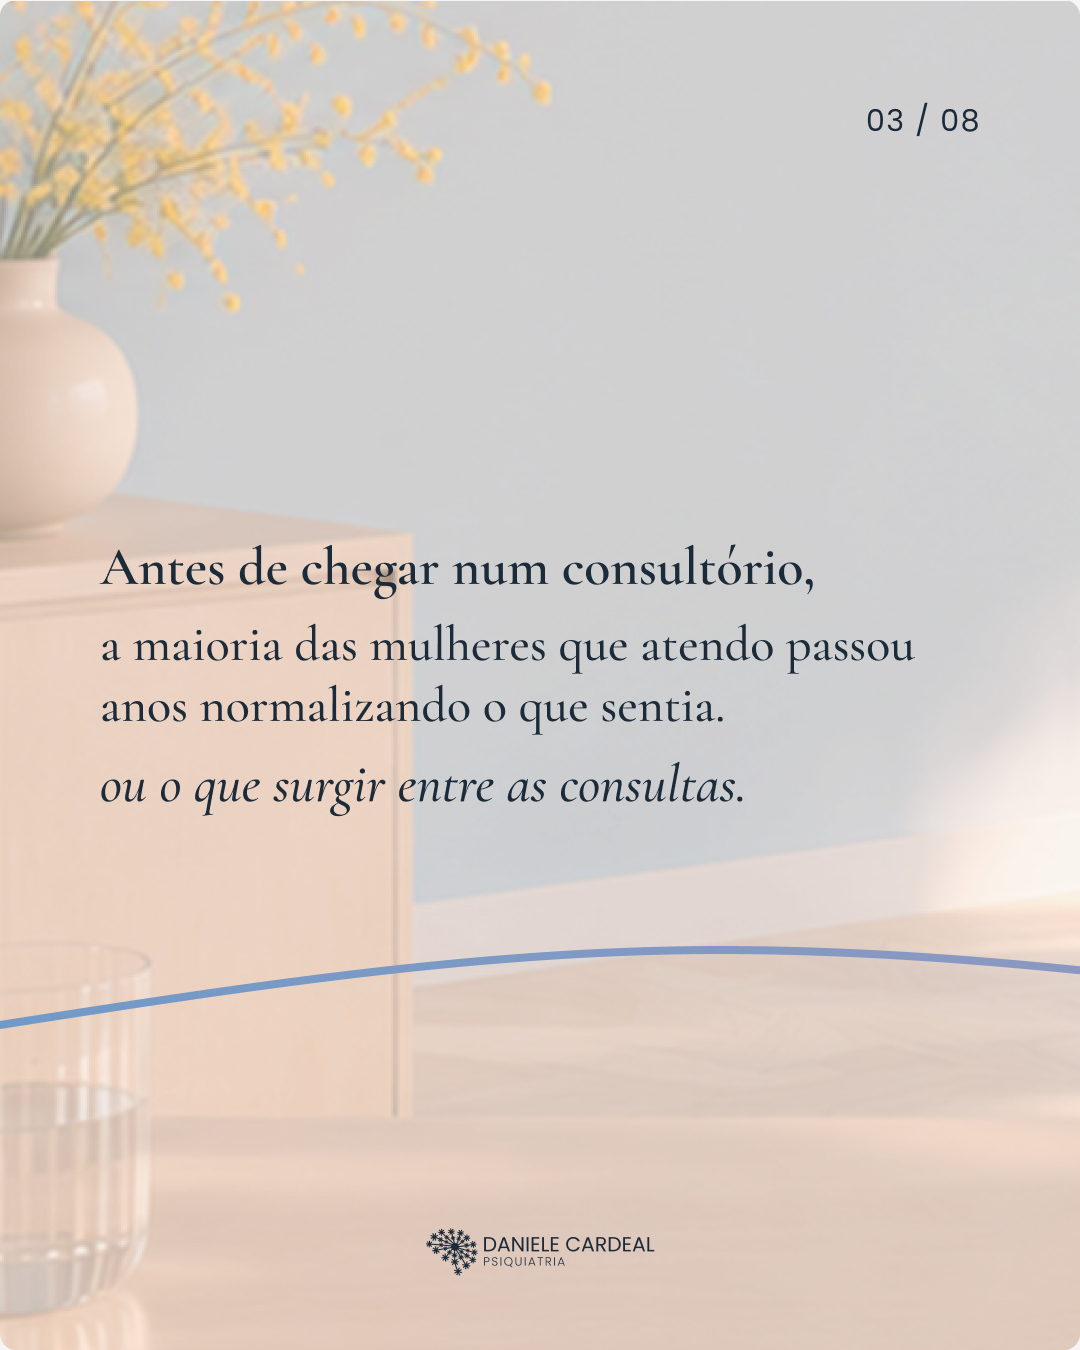
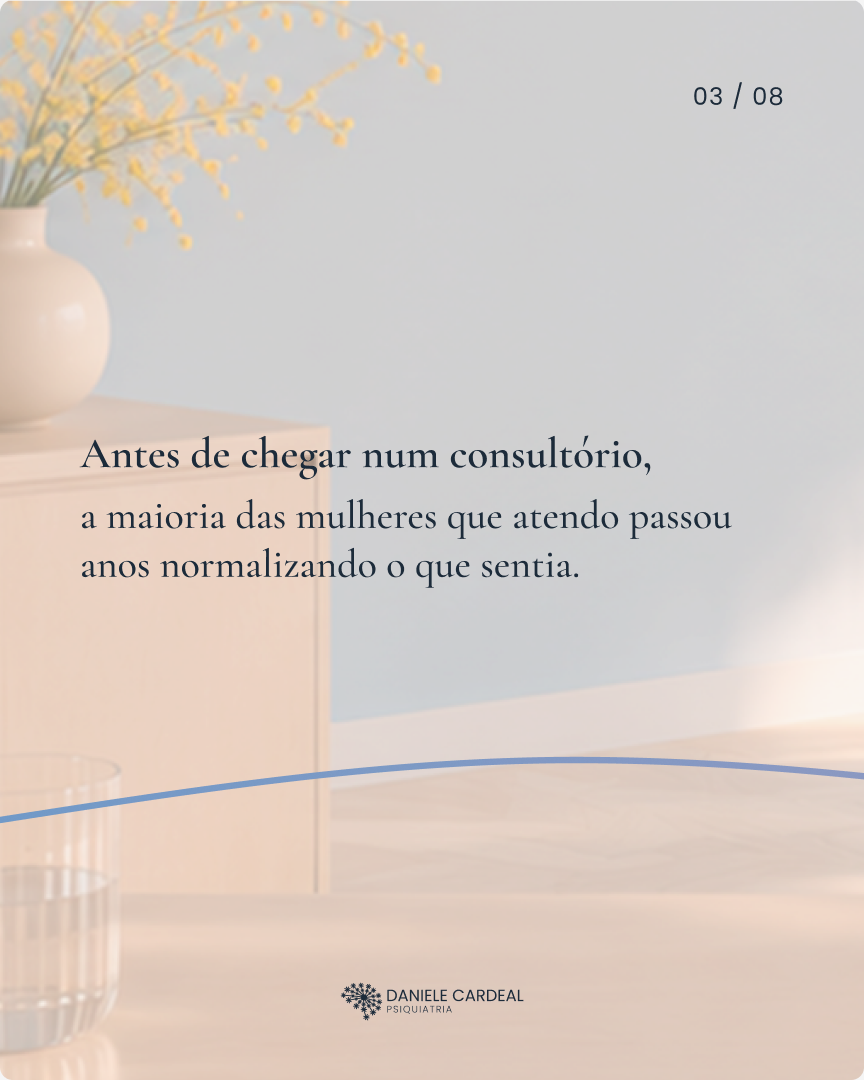
fix(setembro): reexporta carrosseis P2 e P5 (imagens antigas com texto contaminado) e corrige Post 2
As imagens publicadas do carrossel P2 e do P5 (NR-1) eram de uma
versao anterior a limpeza no Figma - tinham frases de dois temas
diferentes coladas no mesmo slide (ex: "...normalizando o que
sentia. / ou o que surgir entre as consultas."). O Figma atual ja
estava limpo, so faltava reexportar - cliente reportou isso direto
pro Erik.

Tambem corrige titulo/gancho/legenda do Post 2 no entregavel, que
tinham sido reescritos por outra sessao para um tema ("Bastidores
do acompanhamento") que nao bate com a arte real do carrossel
("O silencio antes da crise").

Changed region(s): [[0.0938, 0.55, 0.6875, 0.6111], [0.4688, 0.9167, 0.5, 0.9472], [0.4062, 0.9167, 0.4375, 0.9472]]

diff --git a/index.html b/index.html
@@ -2009,7 +2009,7 @@ Daniele Cardeal · A psiquiatra que acompanha.</div>
         <div class="quote">"Entre uma consulta e outra existe uma vida. E às vezes ela precisa de uma resposta antes do próximo mês."</div>
         <div class="desc">O modelo real de trabalho — WhatsApp às 22h, disponibilidade no momento que importa. O que diferencia Daniele do modelo transacional de convênio.</div>
         <ul class="proofs">
-          <li>P2 — Carrossel 09/09: "O que ninguém te conta antes da primeira consulta" (8 slides)</li>
+          <li>P2 — Carrossel 09/09: "O silêncio antes da crise" — o sofrimento normalizado por anos antes de buscar ajuda (8 slides)</li>
           <li>P7 — Reel 24/09: "O Que Dizer (e o Que Não Dizer)"</li>
         </ul>
       </div>
@@ -2089,7 +2089,7 @@ Daniele Cardeal · A psiquiatra que acompanha.</div>
         </div>
       </div>
 
-      <!-- POST 2 · Carrossel — Bastidores do acompanhamento -->
+      <!-- POST 2 · Carrossel — O silêncio antes da crise -->
       <div class="pcard" data-format="carrossel" data-mes="setembro">
         <div class="thumb" onclick="lb(['setembro/Carrossel%20P2%20-%20Bastidores/images/slide-01.png','setembro/Carrossel%20P2%20-%20Bastidores/images/slide-02.png','setembro/Carrossel%20P2%20-%20Bastidores/images/slide-03.png','setembro/Carrossel%20P2%20-%20Bastidores/images/slide-04.png','setembro/Carrossel%20P2%20-%20Bastidores/images/slide-05.png','setembro/Carrossel%20P2%20-%20Bastidores/images/slide-06.png','setembro/Carrossel%20P2%20-%20Bastidores/images/slide-07.png','setembro/Carrossel%20P2%20-%20Bastidores/images/slide-08.png'])">
           <img src="setembro/Carrossel%20P2%20-%20Bastidores/images/slide-01.png" alt="">
@@ -2097,20 +2097,20 @@ Daniele Cardeal · A psiquiatra que acompanha.</div>
         </div>
         <div class="cbody">
           <div class="pnum">Post 2 · 09/09 · qua · 8 slides</div>
-          <div class="ptitle">Bastidores do acompanhamento</div>
-          <div class="pganche">"O que ninguém te conta antes da primeira consulta."</div>
+          <div class="ptitle">O silêncio antes da crise</div>
+          <div class="pganche">"O Setembro Amarelo fala em escutar o outro. Mas quem te ouve quando você mesma não consegue nomear o que está sentindo?"</div>
         </div>
         <button class="expand-btn" onclick="toggle(this)">Ver brief completo <span class="chevron">▾</span></button>
         <div class="brief">
           <div class="brief-section">
             <div class="brief-lbl">Legenda Instagram</div>
-            <div class="caption-box">O que acontece numa consulta psiquiátrica é diferente do que a maioria imagina.
+            <div class="caption-box">O Setembro Amarelo fala em escutar o outro. Mas quem te ouve quando você mesma não consegue nomear o que está sentindo?
 
-Não começa com diagnóstico. Não começa com receita. Começa com escuta — o que está acontecendo, há quanto tempo, o que você já tentou.
+Antes de chegar num consultório, a maioria das mulheres que atendo passou anos normalizando o que sentia.
 
-Esse carrossel mostra como funciona o meu modelo de acompanhamento: da primeira consulta até a alta.
+"Estou só cansada." "Não é nada, vai passar." "Não tenho tempo para isso." Frases que a gente diz pra si mesma enquanto o quadro se agrava.
 
-Para quem está na dúvida se é "hora de ir": é.
+O sofrimento que você minimiza agora é o afastamento que pode acontecer depois. Buscar ajuda não é fraqueza.
 
 Link na bio.
 
